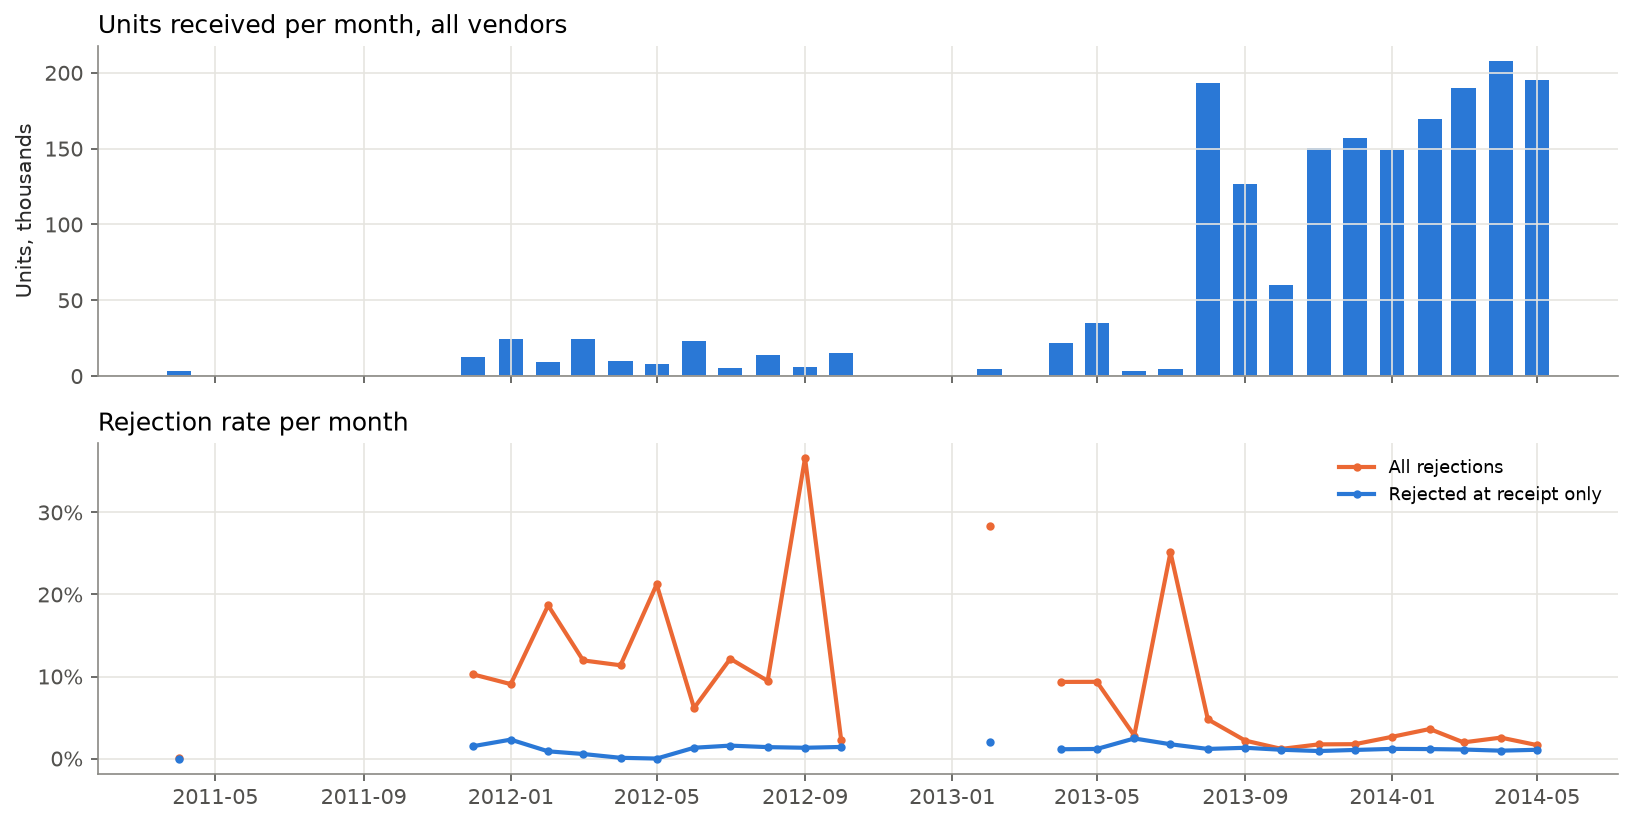
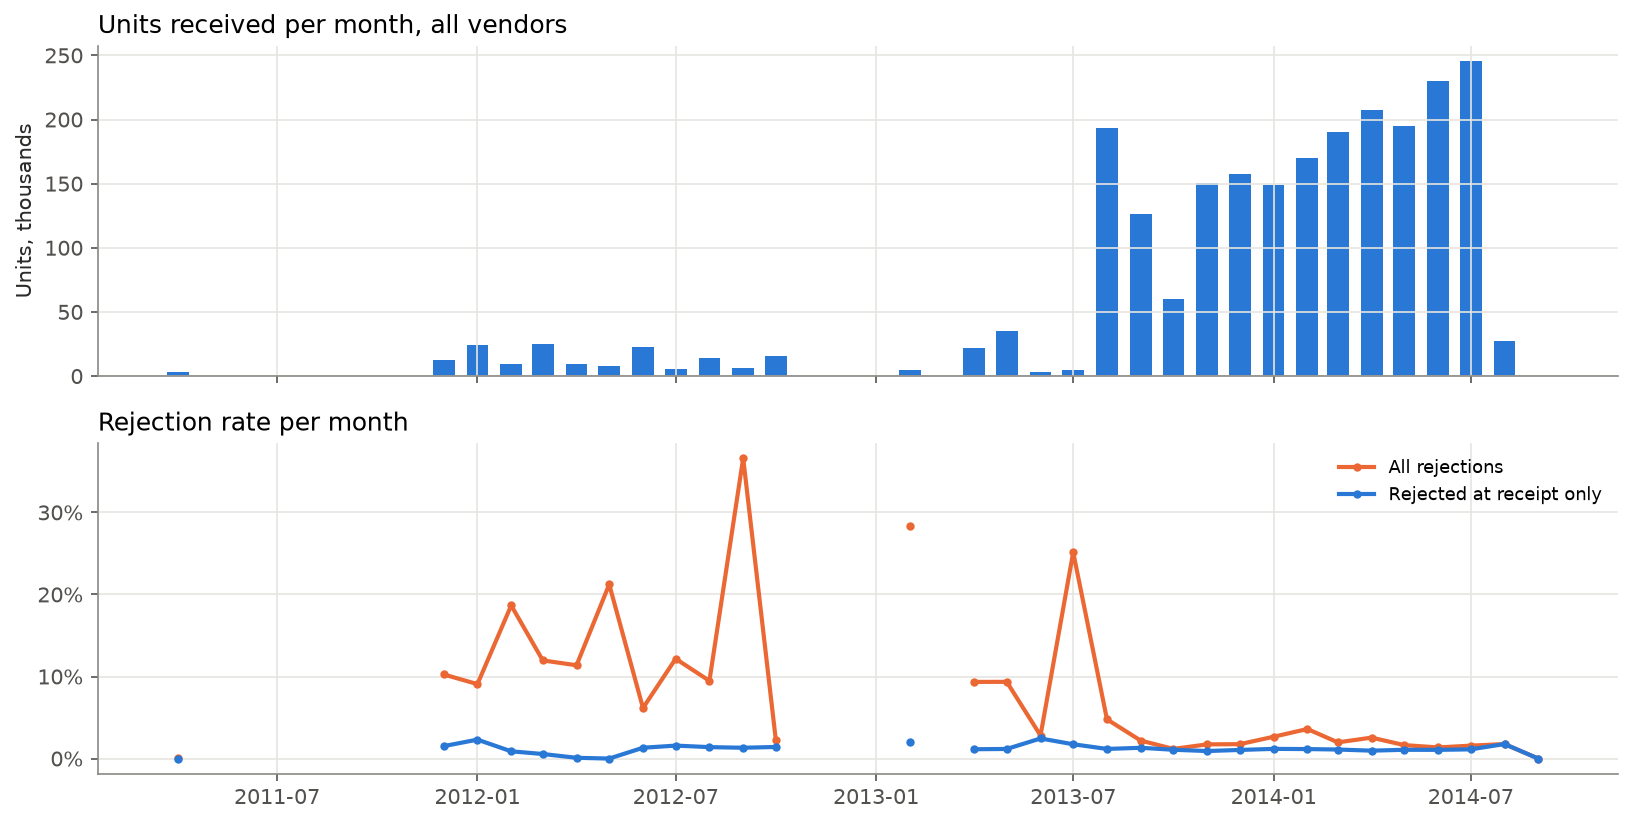
Supplier quality over all purchase orders (through 2014-09), not the sales analysis window
Claude-Session: https://claude.ai/code/session_01F3i5VLc8xrXtjHYg7DGUVP

diff --git a/notebooks/14_supplier_quality.py b/notebooks/14_supplier_quality.py
@@ -1,7 +1,9 @@
 # Databricks notebook source
 # MAGIC %md
 # MAGIC # 14 · Supplier quality
-# MAGIC Received vs rejected quantities by vendor and over time from `mart_vendor_quality`, analysis window.
+# MAGIC Received vs rejected quantities by vendor and over time from `mart_vendor_quality`, over every
+# MAGIC purchase order (Apr 2011 to Sep 2014). The sales analysis window does not apply: it exists because the sales
+# MAGIC extract is truncated, and the purchasing data is not.
 # MAGIC Rejections split into whole deliveries refused (purchase orders with status rejected) and partial
 # MAGIC rejections at receipt. Lead time: the source has no receipt date, so only planned (due date - order date)
 # MAGIC and declared (product_vendor) lead times exist; the check below shows whether they vary enough to analyze.

diff --git a/src/awlake/analysis/supplier.py b/src/awlake/analysis/supplier.py
@@ -1,4 +1,5 @@
-"""Supplier quality from mart_vendor_quality (vendor x month, analysis window).
+"""Supplier quality from mart_vendor_quality (vendor x month, every purchase order through 2014-09;
+the sales analysis window does not apply).
 
 Rejection rate = rejected_qty / received_qty, recomputed from sums. Two kinds of rejection are kept
 apart: whole deliveries refused (purchase orders with status 'rejected') and partial rejections at

diff --git a/docs/PLAN.md b/docs/PLAN.md
@@ -58,5 +58,6 @@ Why bronze is a job and not part of the pipeline: the raw export needs repairs A
   orders because those batches landed on Mar 1 and May 1.
 - 64 reseller order lines (discontinued products sold after their last cost period ended on 2013-05-29) match no
   product cost period; margin carries the latest earlier cost forward for them.
-- Purchase orders run 2011-04-16 to 2014-09-22. There is no receipt date, and due date = order date + 14 days on
+- Purchase orders run 2011-04-16 to 2014-09-22 and are not truncated, so supplier quality uses all of them (the
+  analysis window applies to sales only). There is no receipt date, and due date = order date + 14 days on
   99.4% of lines, so observed lead time cannot be measured; only the declared lead time (ProductVendor) varies.
